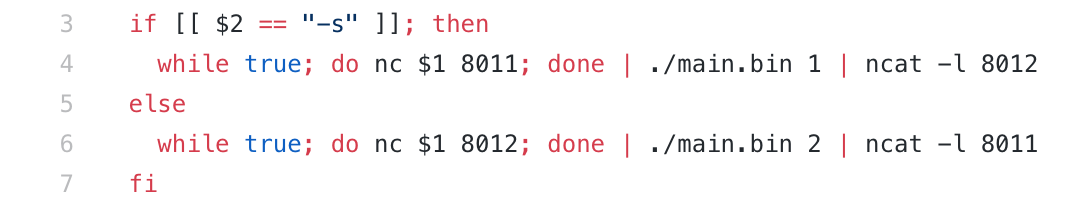
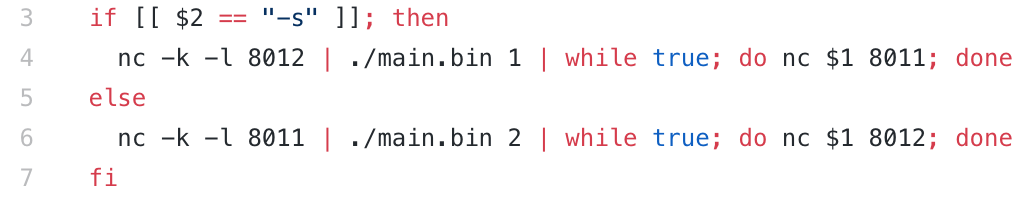
Some edits

diff --git a/_drafts/2018-10-28-raafat-elhagan.md b/_drafts/2018-10-28-raafat-elhagan.md
@@ -1,11 +1,11 @@
 ---
 layout: post
-title: The hackiest I've ever worked on
-summary : "s"
-description : "ss"
+title: The Crappy Game
+summary : "Let me tell you about the crappiest thing I've ever built. A multiplayer 3D OpenGL game with a lot of hacks."
+description : "Let me tell you about one of crappiest thing I've ever built. A multiplayer 3D OpenGL game with a lot of hacks."
 date: '2018-10-28T00:00:00+0000'
 author: Mohamed Bassem
-image: /img/godge/demo_img.png
+image: /img/raafat-elhagan/game.png
 tags:
   - graphics
   - opengl
@@ -15,37 +15,35 @@ tags:
 categories :
 ---
 
-Let me tell you the story of the hackiest thing I've ever worked on and one my favorite projects. It was someday in December 2014. My friend Farghal (@mohamedfarghal) and I were in a team for the project of the Computer Graphics university course. The project was about building any 3D game using OpenGL. Sounds good? yeah, except that we procrastinated until it's 24 hours before the deadline, and ... we knew nothing about how OpenGL works. Well, actually we knew nothing about computer graphics in general.
+Let me tell you the story of the crappiest thing I've ever built, which is at the same time one my favorite projects. It was someday in December 2014. My friend Farghal ([@medo](https://github.com/medo)) and I were in a team for the project of the Computer Graphics university course. The project was about building any 3D game using OpenGL. Sounds good? yeah, except that we procrastinated until it's 24 hours before the deadline, and ... we knew nothing about how OpenGL works. Well, actually we knew nothing about computer graphics in general.
 
 We knew that if we want to get the full grade, we will have to build something impressive to cover up for the poor graphics aspect of the game. We decided to build a multiplayer first person shooter. Yes.
 
 [![Game](/img/raafat-elhagan/game.png)](/img/raafat-elhagan/game.png){:: data-lightbox="img3"}
 
-In this post I'll walk you through some of the hacks that we did for our game Raafat Elhagan (A famous Egyptian Spy). The game's code is [open source](https://github.com/medo/raafat-elhagan). Normally, I'd say go check it out, but in this specific case, please don't. I swear we both code way better than that now, this was 4 years ago.
+In this post I'll walk you through some of the hacks that we did to deliver this game in time. The game's code is [open source](https://github.com/medo/raafat-elhagan). Normally, I'd say go check it out, but in this specific case, please don't. I swear we both code way better than that now, this was 4 years ago.
 
 ## Gameplay
 
-You start the game on a rectangular plane with some walls, obstacles and the other player (represented as a yellow cuboid). You can't go through those obstacles except in a wide variety of corner cases that we didn't have time to handle. You can jump, gravity pulls you back down most of the time. Your goal is to shoot the other player multiple times until you kill them.
+You start the game on a rectangular plane with some walls, obstacles and the other player (represented as a cute yellow cuboid). You can't go through those obstacles except in a wide variety of corner cases that we didn't have time to handle. You can jump, gravity pulls you back down ... most of the time. Your goal is to shoot the other player multiple time until their health goes to zero, that's when you get a point and the game restarts.
 
 How do we calculate whether the player got hit or not? I'm glad you asked.
 
 [![Bullet Math](/img/raafat-elhagan/bullet.png)](/img/raafat-elhagan/bullet.png){:: data-lightbox="img3"}
 
-We move the bullet one step each iteration in the direction of the shot for 1000 iterations. If the other player intersects with the bullet at some iteration, it's a hit. The bullet stops whenever it hits a wall. Well, the bullet can go through the wall if the bullet moves past the wall in a single iteration. A small bug, nobody will notice it.
-
-### It's a feature not a bug
+We move the bullet one step each iteration in the direction of the shot for 1000 iterations. If the other player intersects with the bullet at some iteration, it's a hit. The bullet stops whenever it hits a wall. Well, the bullet can go through the wall if the bullet moves past the wall in a single iteration. A small bug, that nobody will notice.
 
 [![Jump](/img/raafat-elhagan/jump.gif)](/img/raafat-elhagan/jump.gif){:: data-lightbox="img3"}
 
-We noticed that you can jump while you are still in the air. There was no quick way to prevent that, so we though it might be cool to allow players to fly. Totally intended.
+"***It's not a bug, it's a feature***" was our motto. We noticed that you can jump while you are still in the air. There was no quick way to prevent that, so we though it might be cool to allow players to fly. Totally intended.
 
 [![Fall](/img/raafat-elhagan/fall.gif)](/img/raafat-elhagan/fall.gif){:: data-lightbox="img3"}
 
-Did I mention that our world is infinite? Only when you are falling.
+Did I mention that our world is infinite? Only when you are falling. You can fly back up though.
 
 ## Sound
 
-We wanted our game to have sound effects. We wanted to hear some sound whenever a bullet is shot, or a player is hit.
+Who plays a game without sound effects? The game plays a sound effect whenever a shot is fired, and whenever you are hit.
 
 How to play mp3 files in c++? DON'T TRY THIS AT HOME (Although it's cross platform).
 
@@ -55,15 +53,15 @@ What about background music?
 
 [![Background Music](/img/raafat-elhagan/background_music.png)](/img/raafat-elhagan/background_music.png){:: data-lightbox="img3"}
 
-Users must have a "rafat-elhagan.mp3" file on their desktop. We don't distribute it with the game. Copyrights. Or we might have missed moving it to the repo.
+Users must have a "rafat-elhagan.mp3" file on their desktop. We don't distribute it with the game. Copyrights. Or we might have missed moving it to the repo back then.
 
 ## Networking
 
-That was the most interesting part. We are building a multiplayer game but we didn't know how to do networking in c++. We decided to take an interesting approach.
+Now comes what makes our game special. The networing part. Our game is a multiplayer game that is supposed to be played over local network. There was one single problem, we didn't know how to do networking in c++. We had to hack our way through.
 
 [![Networking](/img/raafat-elhagan/bash.png)](/img/raafat-elhagan/bash.png){:: data-lightbox="img3"}
 
-Let me explain what's going on in here. The game binary reads from stdin and writes to stdout. Stdin data comes from contacting some TCP server periodically as fast as it can in an infinite loop. Stdout data goes to some TCP server that's waiting for someone to consume its data. Each player contacts the other's TCP server and dumps the data it gets to its game binary's stdin. So whatever one player's binary writes to stdout, will eventually be read by the other player's binary. Duplex communication channel established. Please don't judge, we only had 24 hours!
+Let me explain what's going on in here. The game binary reads from stdin and writes to stdout. Each player starts a TCP server that dumps the data it gets to Stdin of the game. Stdout of the game gets periodically sent to the TCP server of the other player. So whatever one player's binary writes to stdout, will eventually be read by the other player's binary. Duplex communication channel established. Please don't judge, we only had 24 hours!
 
 By now you've probably guessed what's being communicated. Whenever a binary is started, two threads are spawned. One thread that periodically dumps the game state (location, is shooting, a hit, etc.) to stdout. The other thread reads from stdin and applies this information to its local state (playing the sound effects). That's how the two instances are kept in sync.
 
@@ -71,13 +69,15 @@ By now you've probably guessed what's being communicated. Whenever a binary is s
 
 ## Demo
 
+We played the game today over the internet (doing port forwarding on both routers) and recorded this demo. The demo is lagging a bit because the game was not designed for that.
+
 DEMO VIDEO
 
 ## Grade
 
-What we ended up with was actually a fun game to play. We got the full grade with a bonus that overflowed and filled our lost quiz grades. SUCCESS.
+What we ended up with was actually a fun game to play. We got the full grade with a bonus that overflowed and filled our lost quiz grades. IN 24 HOURS. SUCCESS.
 
-## Not so happy ending
+## The Not So Happy Ending
 
-We built this game. We wrote its logic. We knew how to cheat. We knew how to trigger certain bugs. But we lost the first real match against [Rami](https://github.com/rami-khalil). We suck at playing our own game.
+We built this game. We wrote its logic. We knew how to cheat. We knew how to trigger certain bugs. But we lost the first real match against our friend [Rami](https://github.com/rami-khalil). We suck at playing our own game.
 
